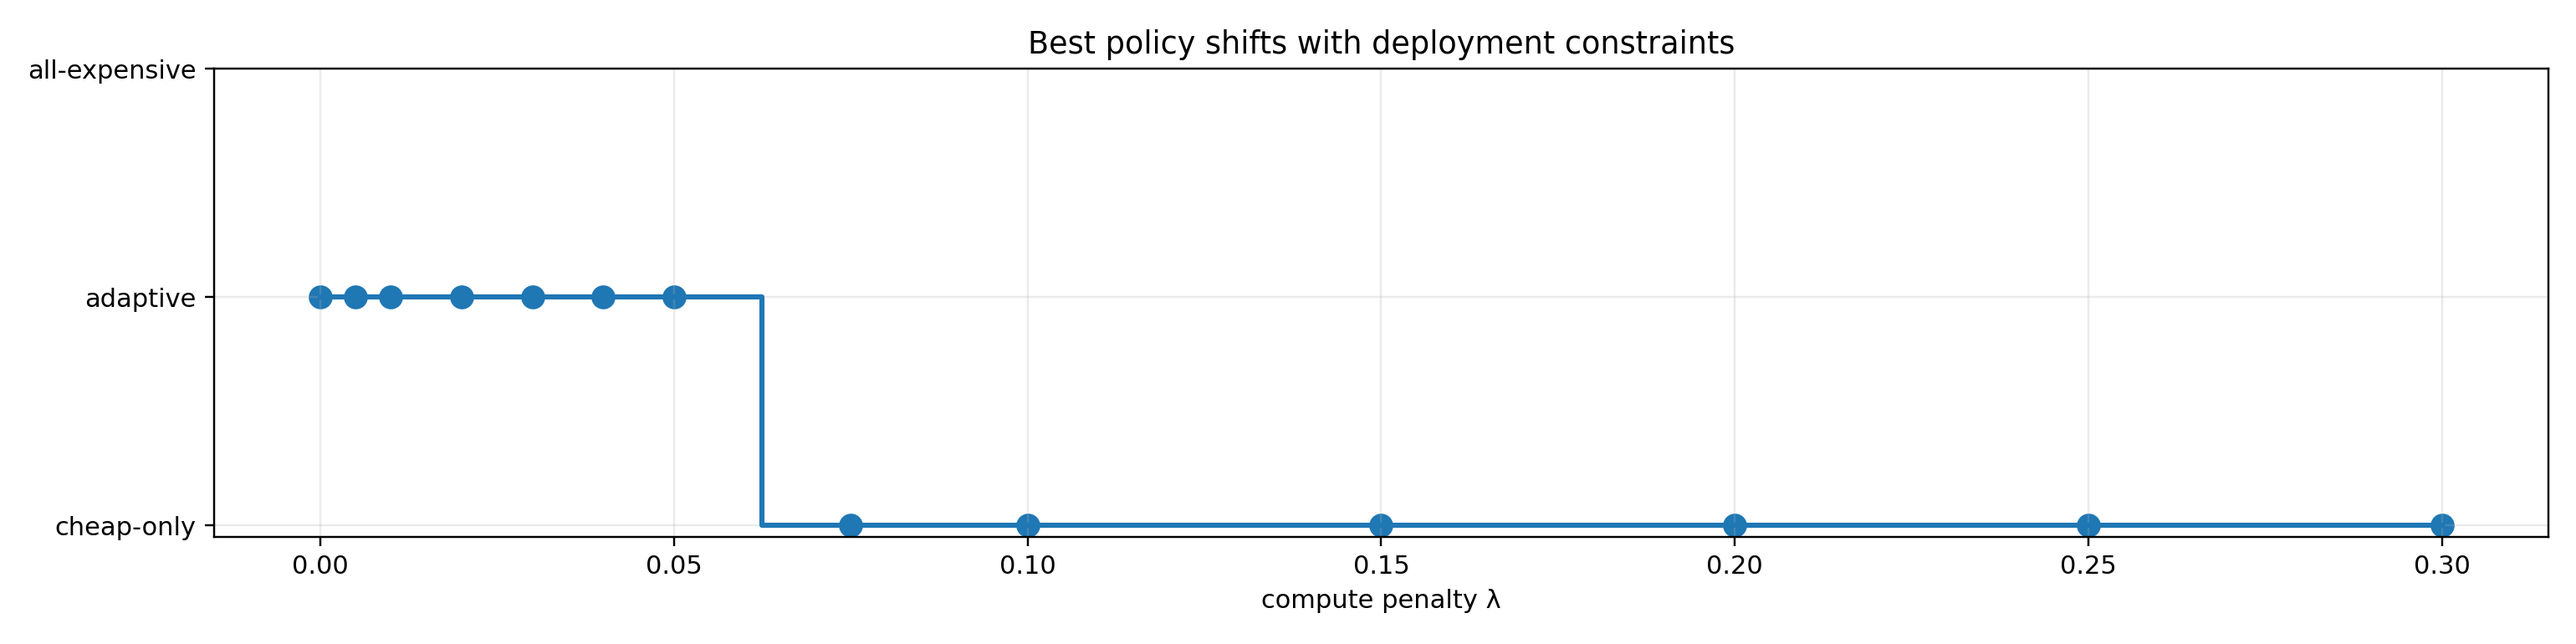
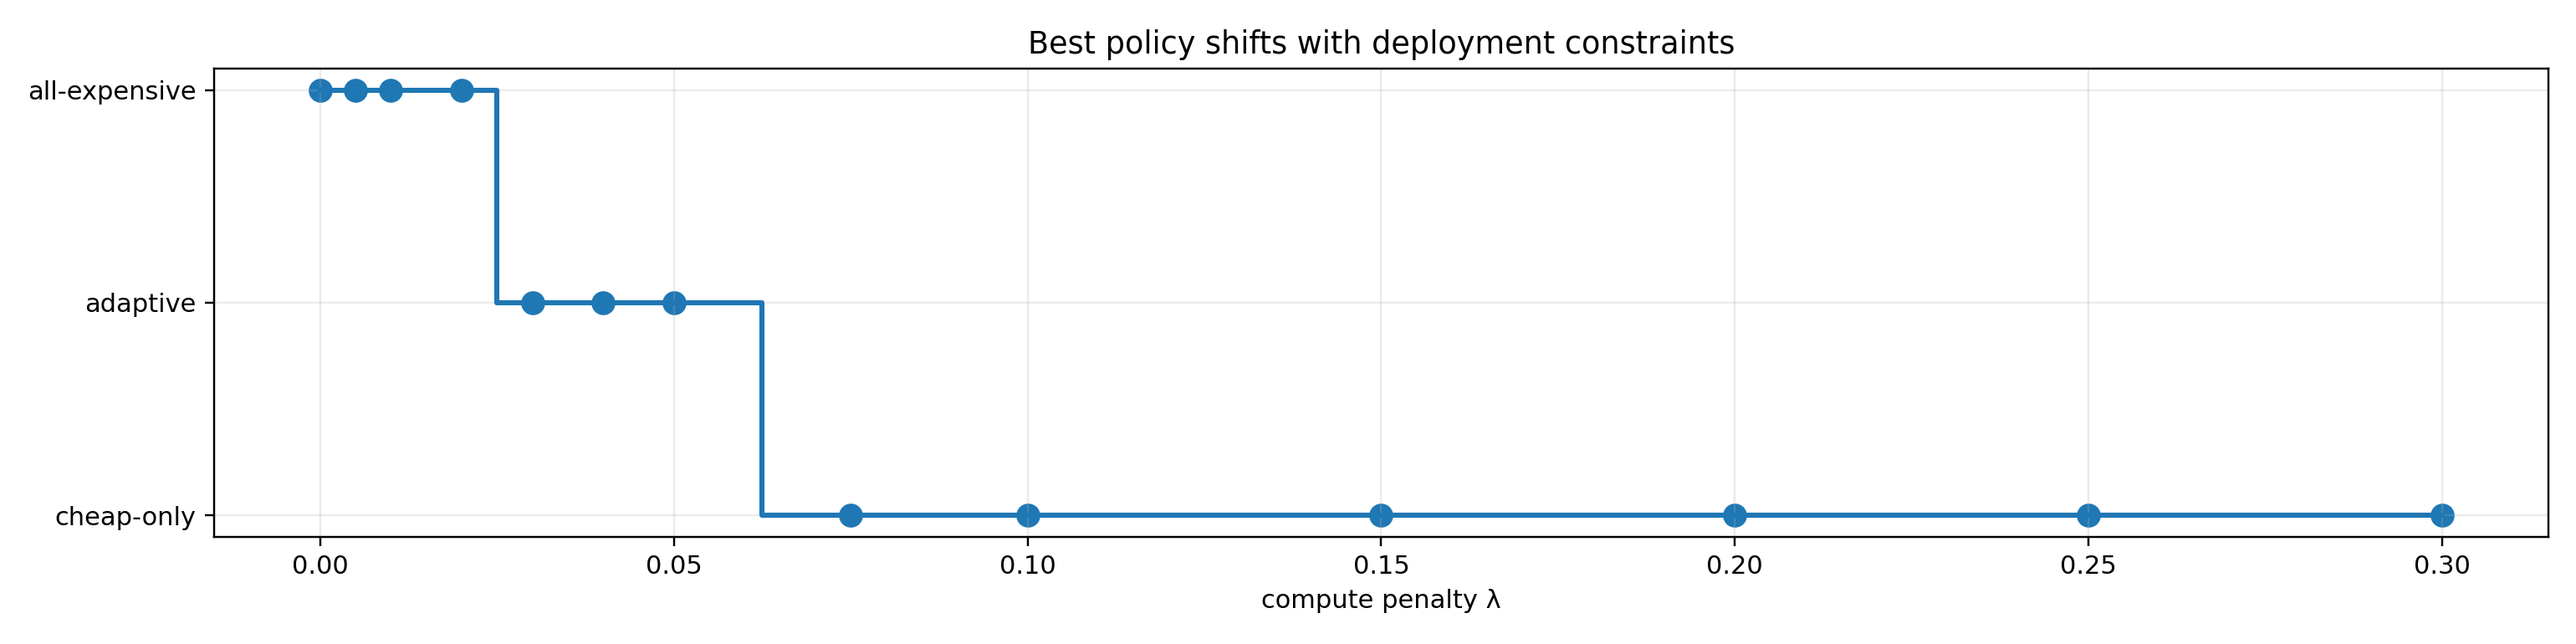
Refine best-validation lambda policy regimes

diff --git a/scripts/bestval_lambda_sweep_from_runs.py b/scripts/bestval_lambda_sweep_from_runs.py
@@ -65,11 +65,22 @@ def normalize_row(row: dict) -> dict:
     }
 
 
-def policy_type(policy: str) -> str:
-    if policy == "cheap-only":
-        return "cheap-only"
-    if policy == "all-expensive":
+def effective_policy_type(row: dict, eps: float = 0.01) -> str:
+    """Classify the policy by its actual deployment behavior.
+
+    Some threshold policies are mathematically distinct from the explicit
+    baselines but behave almost identically in deployment. For example, a
+    threshold that activates the expensive predictor on 99.95% of samples is
+    effectively all-expensive. Collapsing these near-degenerate policies makes
+    the regime plot easier to interpret.
+    """
+    selected = float(row.get("selected", row.get("selected_fraction", 0.0)))
+    policy = str(row.get("policy", ""))
+
+    if policy == "all-expensive" or selected >= 1.0 - eps:
         return "all-expensive"
+    if policy == "cheap-only" or selected <= eps:
+        return "cheap-only"
     return "adaptive"
 
 
@@ -84,7 +95,7 @@ def load_seed_run(path: Path) -> list[dict]:
 def best_by_type(rows: list[dict], lam: float) -> dict[str, dict]:
     grouped: dict[str, list[dict]] = defaultdict(list)
     for row in rows:
-        grouped[policy_type(row["policy"])].append(row)
+        grouped[effective_policy_type(row)].append(row)
 
     out = {}
     for typ, typ_rows in grouped.items():
@@ -318,7 +329,7 @@ def main() -> None:
                 "seed": seed,
                 "lambda": lam,
                 "best_policy": best["policy"],
-                "best_type": policy_type(best["policy"]),
+                "best_type": effective_policy_type(best),
                 "best_error": best["error"],
                 "best_compute": best["compute"],
                 "best_selected": best["selected"],

diff --git a/reports/tables/bestval_lambda_sweep.md b/reports/tables/bestval_lambda_sweep.md
@@ -1,10 +1,10 @@
 # Best-validation DINOv2 real selective refinement: lambda sweep
 | lambda | policy mode | error | compute | selected | utility | policies |
 | ---: | --- | ---: | ---: | ---: | ---: | --- |
-| 0.000 | adaptive | 1.1409 ± 0.0008 | 3.9985 ± 0.0026 | 0.9995 ± 0.0009 | -1.1409 ± 0.0008 | threshold=0.05, threshold=0.05, threshold=0.10 |
-| 0.005 | adaptive | 1.1409 ± 0.0008 | 3.9985 ± 0.0026 | 0.9995 ± 0.0009 | -1.1609 ± 0.0008 | threshold=0.05, threshold=0.05, threshold=0.10 |
-| 0.010 | adaptive | 1.1409 ± 0.0008 | 3.9985 ± 0.0026 | 0.9995 ± 0.0009 | -1.1809 ± 0.0008 | threshold=0.05, threshold=0.05, threshold=0.10 |
-| 0.020 | adaptive | 1.1410 ± 0.0007 | 3.9918 ± 0.0105 | 0.9973 ± 0.0035 | -1.2208 ± 0.0009 | threshold=0.10, threshold=0.05, threshold=0.10 |
+| 0.000 | all-expensive | 1.1409 ± 0.0008 | 3.9985 ± 0.0026 | 0.9995 ± 0.0009 | -1.1409 ± 0.0008 | threshold=0.05, threshold=0.05, threshold=0.10 |
+| 0.005 | all-expensive | 1.1409 ± 0.0008 | 3.9985 ± 0.0026 | 0.9995 ± 0.0009 | -1.1609 ± 0.0008 | threshold=0.05, threshold=0.05, threshold=0.10 |
+| 0.010 | all-expensive | 1.1409 ± 0.0008 | 3.9985 ± 0.0026 | 0.9995 ± 0.0009 | -1.1809 ± 0.0008 | threshold=0.05, threshold=0.05, threshold=0.10 |
+| 0.020 | all-expensive | 1.1410 ± 0.0007 | 3.9918 ± 0.0105 | 0.9973 ± 0.0035 | -1.2208 ± 0.0009 | threshold=0.10, threshold=0.05, threshold=0.10 |
 | 0.030 | adaptive | 1.1700 ± 0.0254 | 3.0012 ± 0.8626 | 0.6671 ± 0.2875 | -1.2601 ± 0.0007 | threshold=0.35, threshold=0.35, threshold=0.10 |
 | 0.040 | adaptive | 1.2060 ± 0.0040 | 1.9055 ± 0.1324 | 0.3018 ± 0.0441 | -1.2822 ± 0.0020 | threshold=0.50, threshold=0.50, threshold=0.50 |
 | 0.050 | adaptive | 1.2175 ± 0.0147 | 1.6561 ± 0.3462 | 0.2187 ± 0.1154 | -1.3003 ± 0.0042 | threshold=0.65, threshold=0.80, threshold=0.50 |
@@ -19,16 +19,16 @@
 
 | lambda | cheap-only | adaptive selector | all-expensive |
 | ---: | ---: | ---: | ---: |
-| 0.000 | -1.2568 ± 0.0044 | -1.1409 ± 0.0008 | -1.1409 ± 0.0008 |
-| 0.005 | -1.2618 ± 0.0044 | -1.1609 ± 0.0008 | -1.1609 ± 0.0008 |
-| 0.010 | -1.2668 ± 0.0044 | -1.1809 ± 0.0008 | -1.1809 ± 0.0008 |
-| 0.020 | -1.2768 ± 0.0044 | -1.2208 ± 0.0009 | -1.2209 ± 0.0008 |
-| 0.030 | -1.2868 ± 0.0044 | -1.2601 ± 0.0007 | -1.2609 ± 0.0008 |
-| 0.040 | -1.2968 ± 0.0044 | -1.2822 ± 0.0020 | -1.3009 ± 0.0008 |
-| 0.050 | -1.3068 ± 0.0044 | -1.3003 ± 0.0042 | -1.3409 ± 0.0008 |
-| 0.075 | -1.3318 ± 0.0044 | -1.3352 ± 0.0059 | -1.4409 ± 0.0008 |
-| 0.100 | -1.3568 ± 0.0044 | -1.3668 ± 0.0069 | -1.5409 ± 0.0008 |
-| 0.150 | -1.4068 ± 0.0044 | -1.4300 ± 0.0088 | -1.7409 ± 0.0008 |
-| 0.200 | -1.4568 ± 0.0044 | -1.4932 ± 0.0107 | -1.9409 ± 0.0008 |
-| 0.250 | -1.5068 ± 0.0044 | -1.5565 ± 0.0126 | -2.1409 ± 0.0008 |
-| 0.300 | -1.5568 ± 0.0044 | -1.6197 ± 0.0146 | -2.3409 ± 0.0008 |
+| 0.000 | -1.2568 ± 0.0044 | -1.1493 ± 0.0036 | -1.1409 ± 0.0008 |
+| 0.005 | -1.2618 ± 0.0044 | -1.1681 ± 0.0033 | -1.1609 ± 0.0008 |
+| 0.010 | -1.2668 ± 0.0044 | -1.1869 ± 0.0030 | -1.1809 ± 0.0008 |
+| 0.020 | -1.2768 ± 0.0044 | -1.2244 ± 0.0023 | -1.2208 ± 0.0009 |
+| 0.030 | -1.2868 ± 0.0044 | -1.2604 ± 0.0013 | -1.2607 ± 0.0009 |
+| 0.040 | -1.2968 ± 0.0044 | -1.2822 ± 0.0020 | -1.3006 ± 0.0009 |
+| 0.050 | -1.3068 ± 0.0044 | -1.3003 ± 0.0042 | -1.3404 ± 0.0010 |
+| 0.075 | -1.3318 ± 0.0044 | -1.3352 ± 0.0059 | -1.4400 ± 0.0010 |
+| 0.100 | -1.3568 ± 0.0044 | -1.3668 ± 0.0069 | -1.5397 ± 0.0011 |
+| 0.150 | -1.4068 ± 0.0044 | -1.4300 ± 0.0088 | -1.7389 ± 0.0014 |
+| 0.200 | -1.4568 ± 0.0044 | -1.4932 ± 0.0107 | -1.9382 ± 0.0018 |
+| 0.250 | -1.5068 ± 0.0044 | -1.5565 ± 0.0126 | -2.1375 ± 0.0022 |
+| 0.300 | -1.5568 ± 0.0044 | -1.6197 ± 0.0146 | -2.3368 ± 0.0026 |
